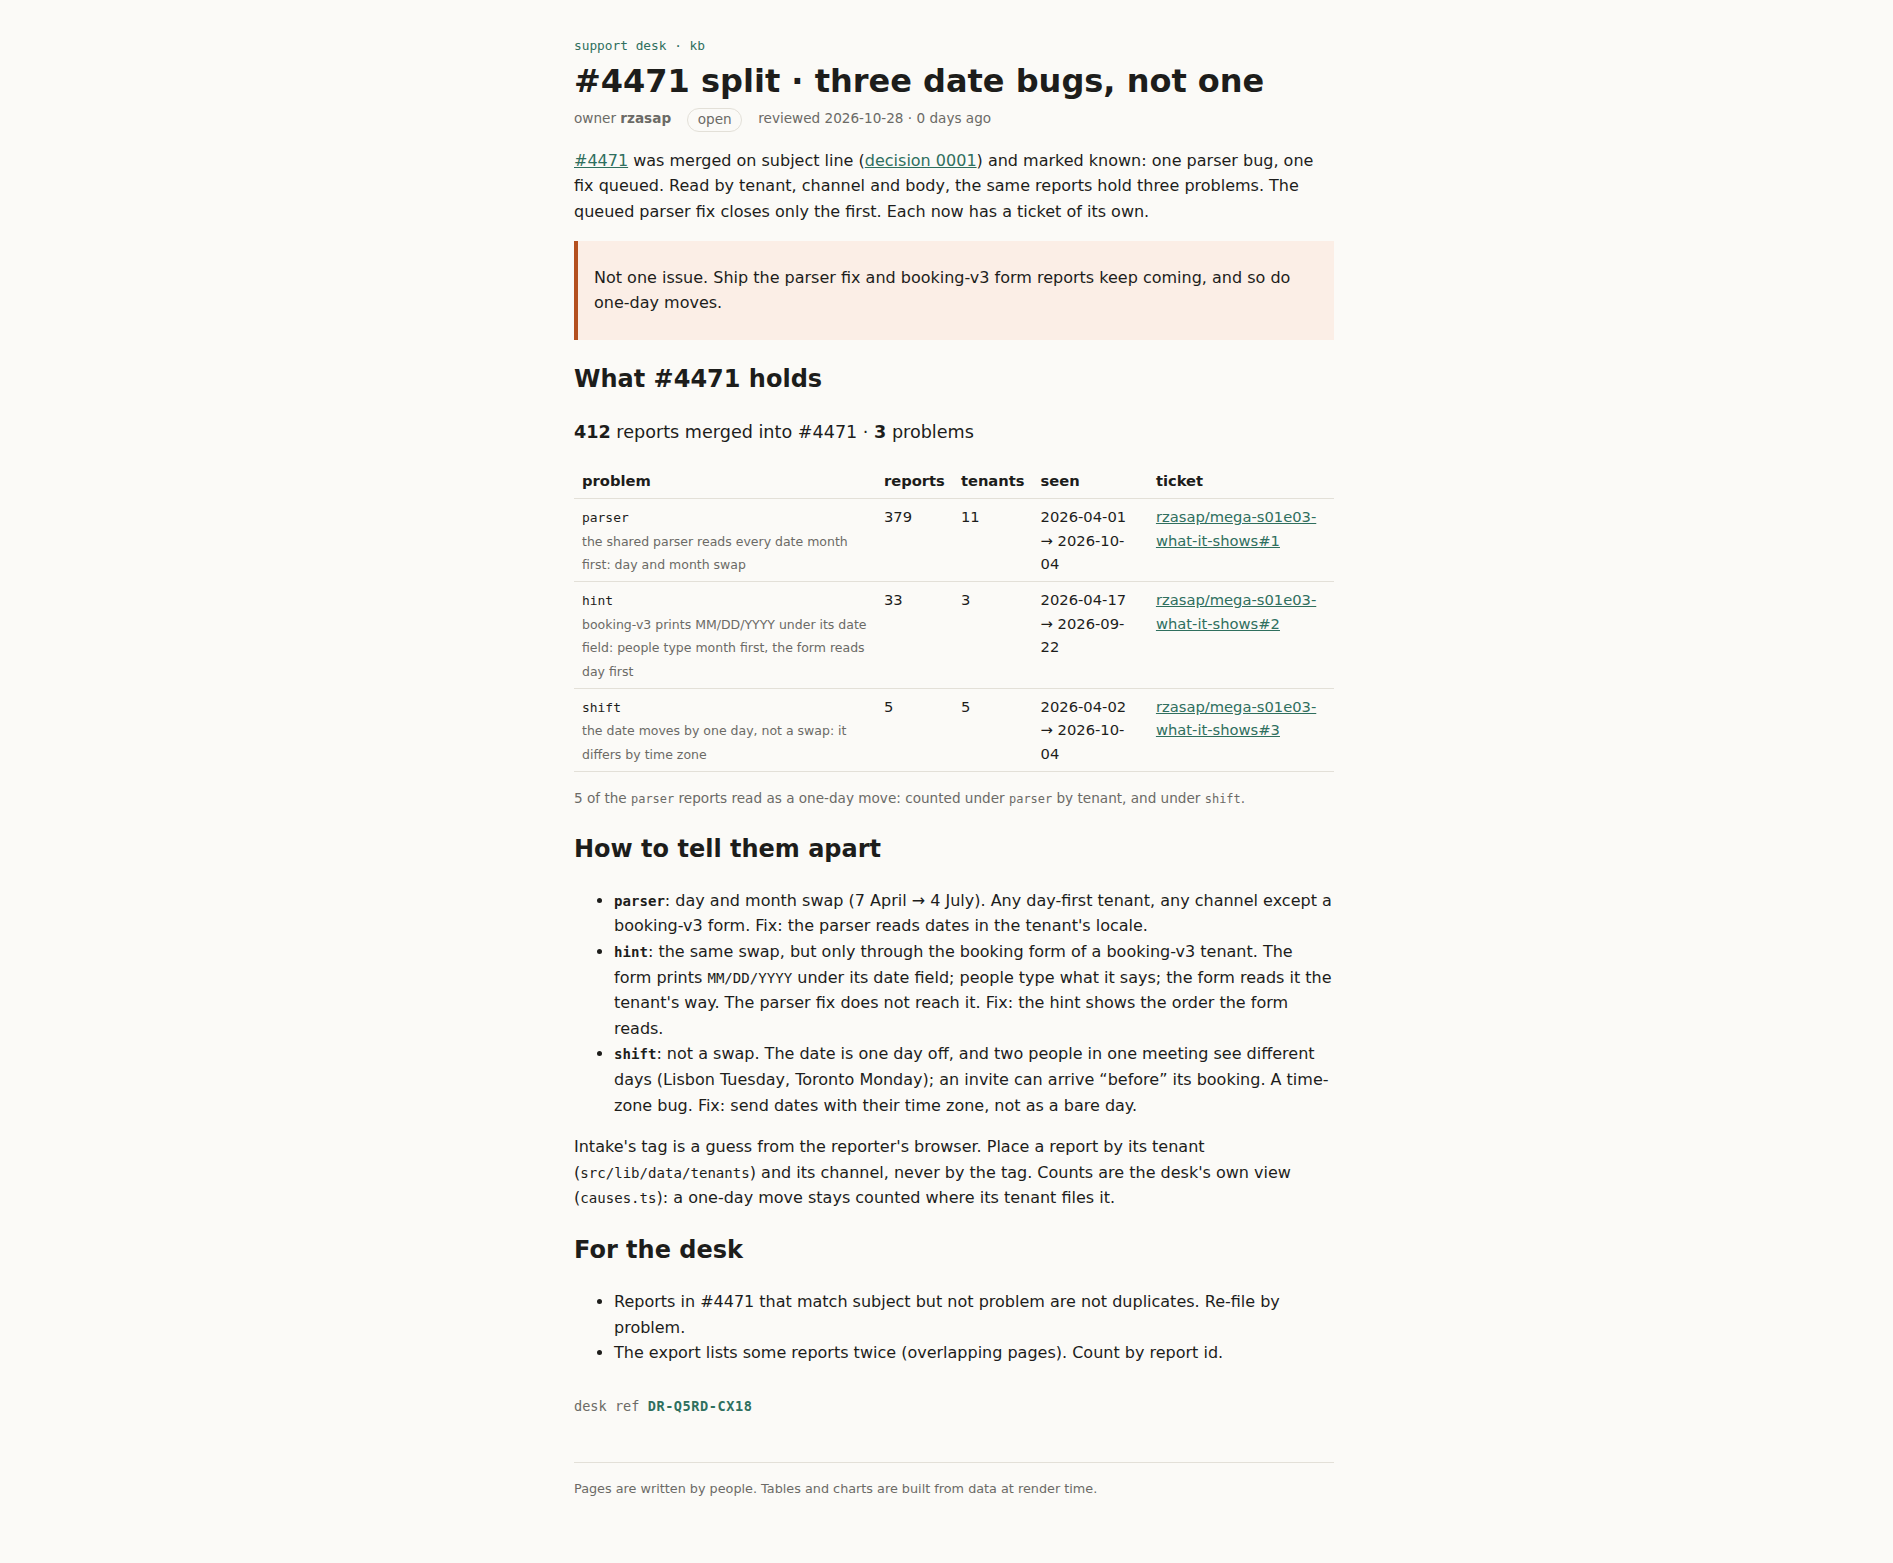
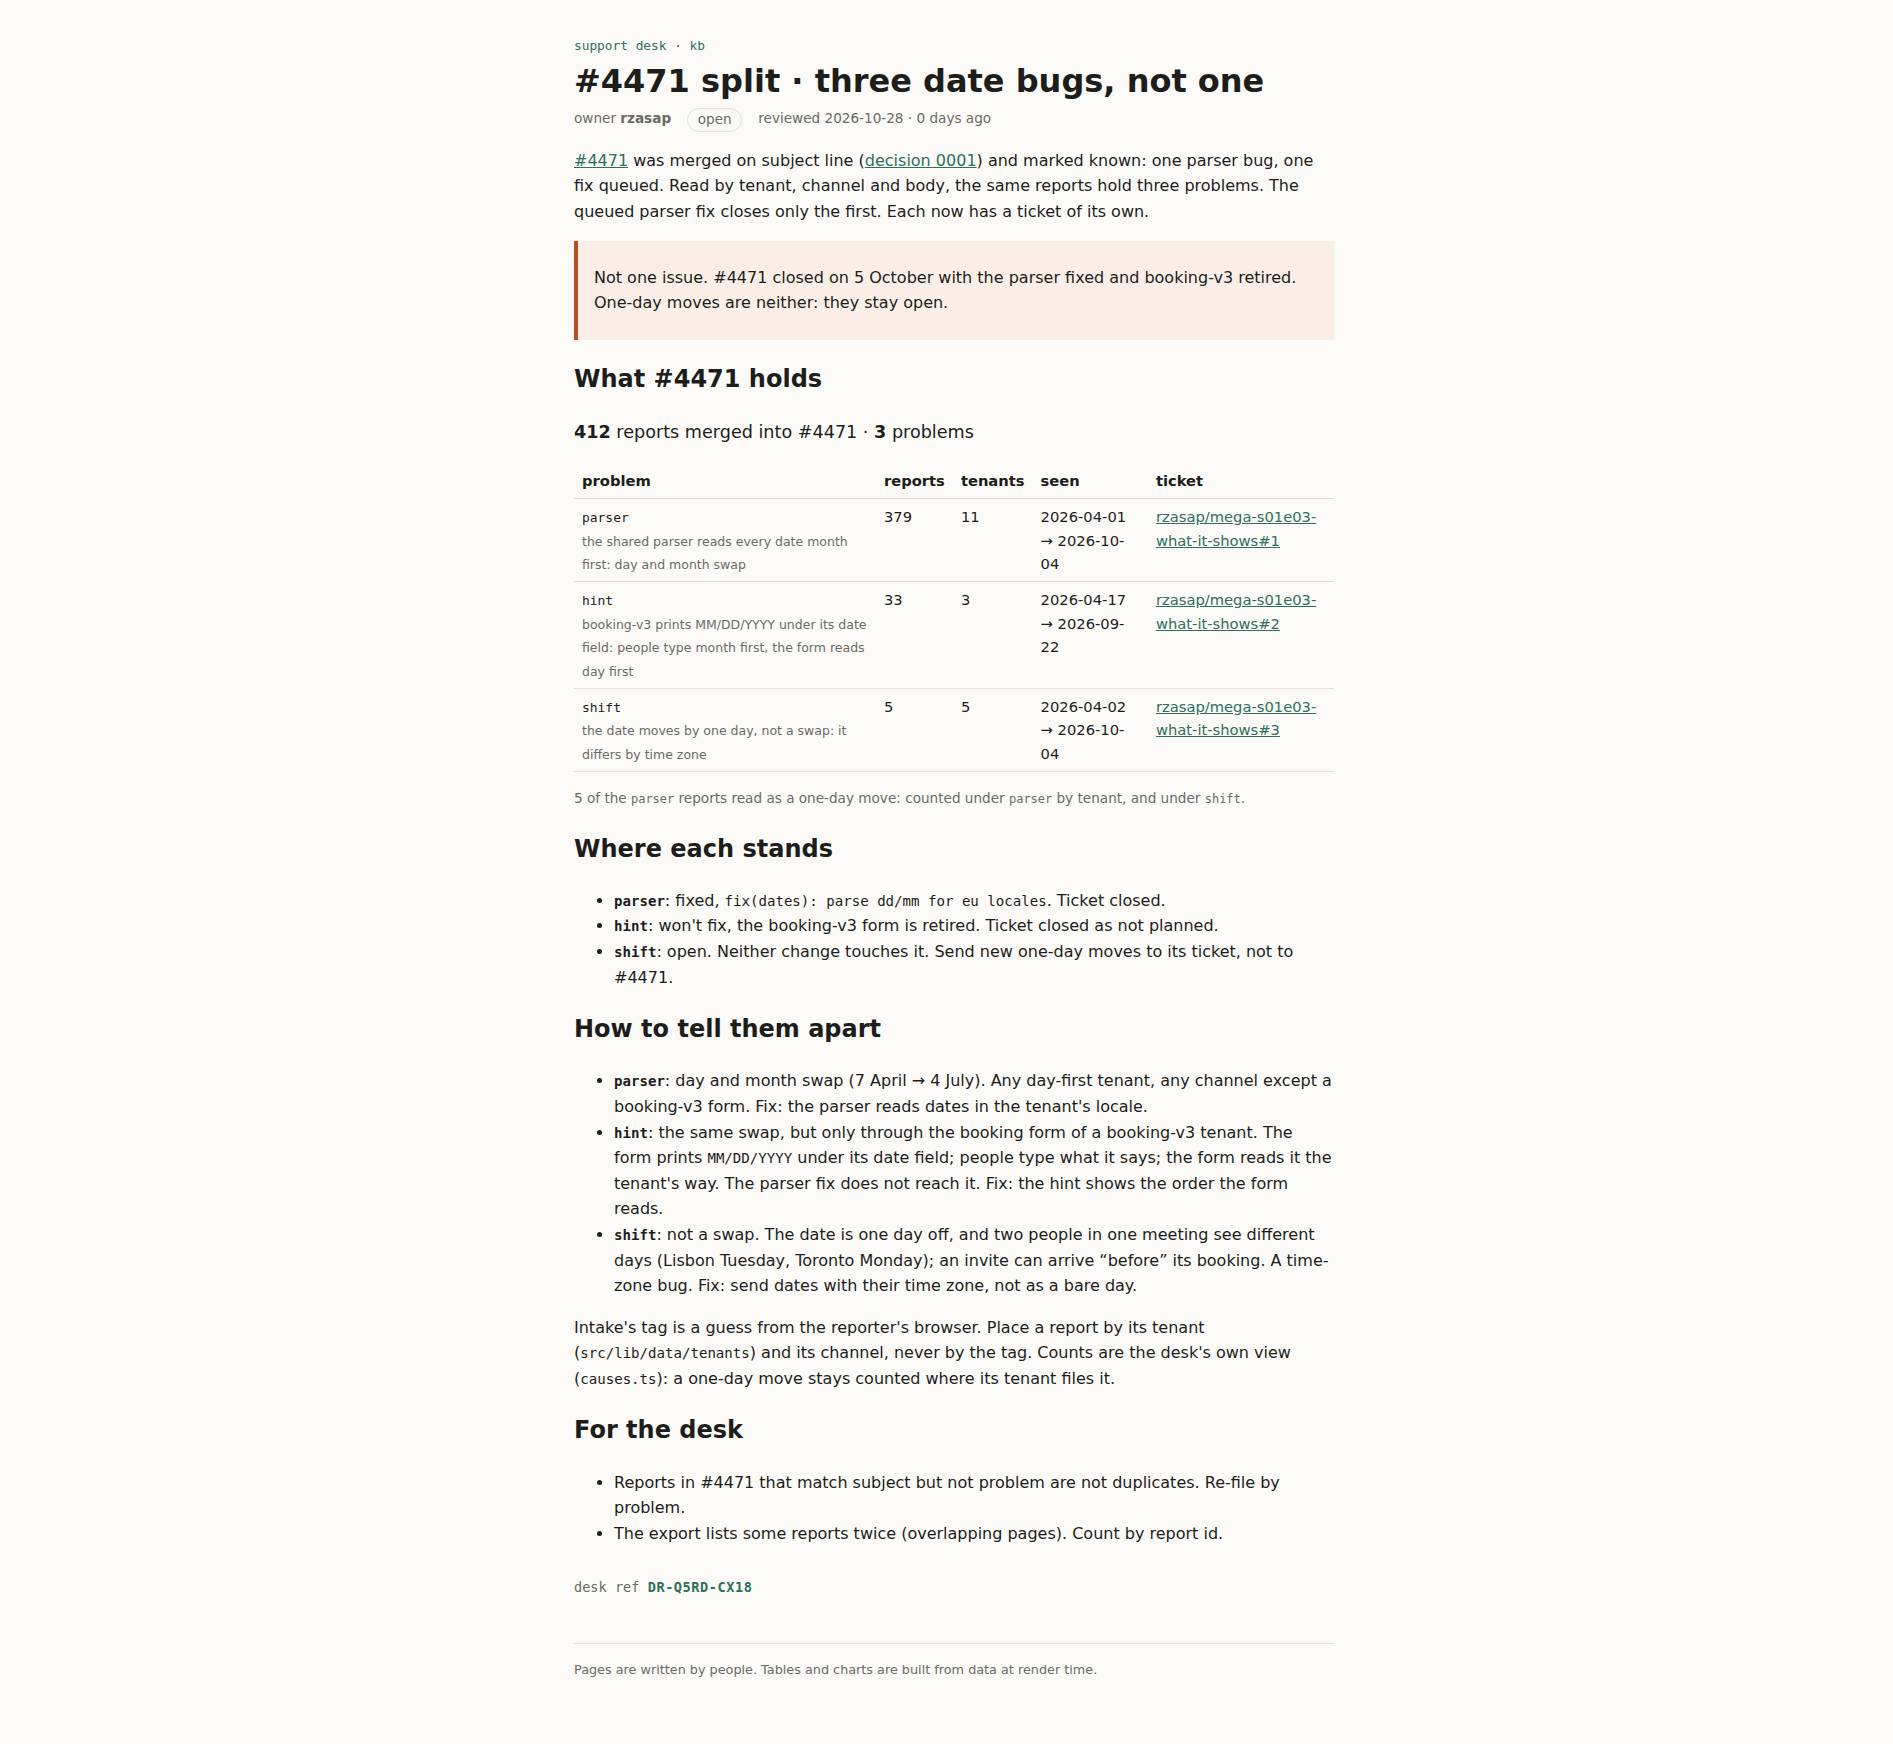
Record where each #4471 problem stands after the 5 Oct desk update

Changed region(s): [[0.2805, 0.0, 0.7169, 0.9213], [0.3117, 0.952, 0.561, 0.9827]]

diff --git a/rendered/kb/incidents/4471-split/index.html b/rendered/kb/incidents/4471-split/index.html
@@ -39,7 +39,8 @@
     and marked known: one parser bug, one fix queued. Read by tenant, channel and body, the same
     reports hold three problems. The queued parser fix closes only the first. Each now has a ticket of
     its own.</p>
-    <aside class="warn"><p>Not one issue. Ship the parser fix and booking-v3 form reports keep coming, and so do one-day moves.</p></aside>
+    <aside class="warn"><p>Not one issue. #4471 closed on 5 October with the parser fixed and booking-v3 retired. One-day
+    moves are neither: they stay open.</p></aside>
     <h2>What #4471 holds</h2>
     <p class="sum"><strong>412</strong> reports merged into #4471 · <strong>3</strong> problems</p>
     <table>
@@ -63,6 +64,12 @@
       </tbody>
     </table>
     <p class="note">5 of the <code>parser</code> reports read as a one-day move: counted under <code>parser</code> by tenant, and under <code>shift</code>.</p>
+    <h2>Where each stands</h2>
+    <ul>
+      <li><strong><code>parser</code></strong>: fixed, <code>fix(dates): parse dd/mm for eu locales</code>. Ticket closed.</li>
+      <li><strong><code>hint</code></strong>: won't fix, the booking-v3 form is retired. Ticket closed as not planned.</li>
+      <li><strong><code>shift</code></strong>: open. Neither change touches it. Send new one-day moves to its ticket, not to #4471.</li>
+    </ul>
     <h2>How to tell them apart</h2>
     <ul>
       <li><strong><code>parser</code></strong>: day and month swap (7 April → 4 July). Any day-first tenant, any channel except a
